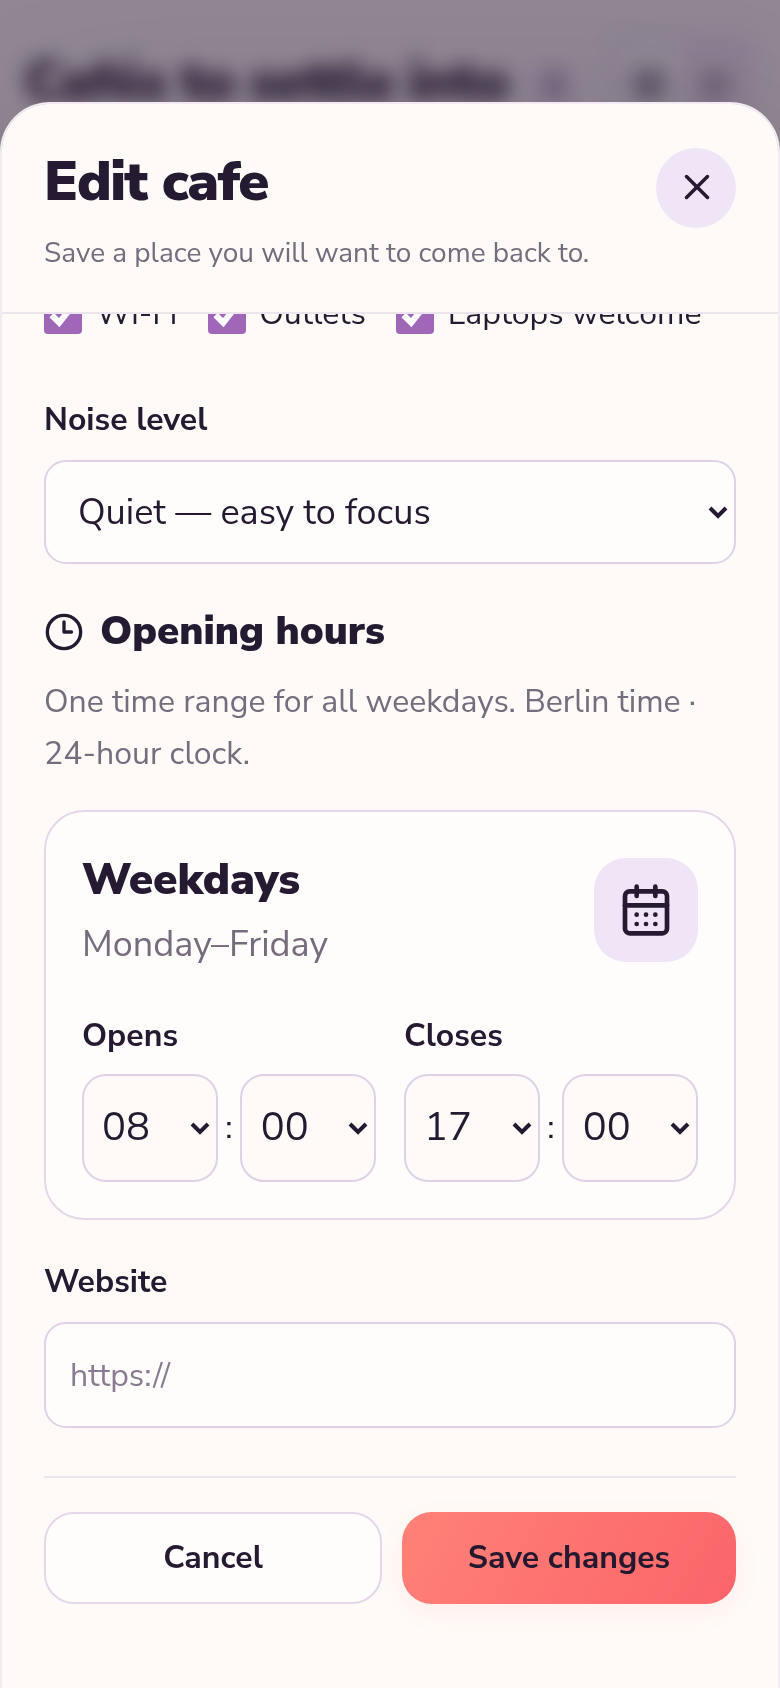
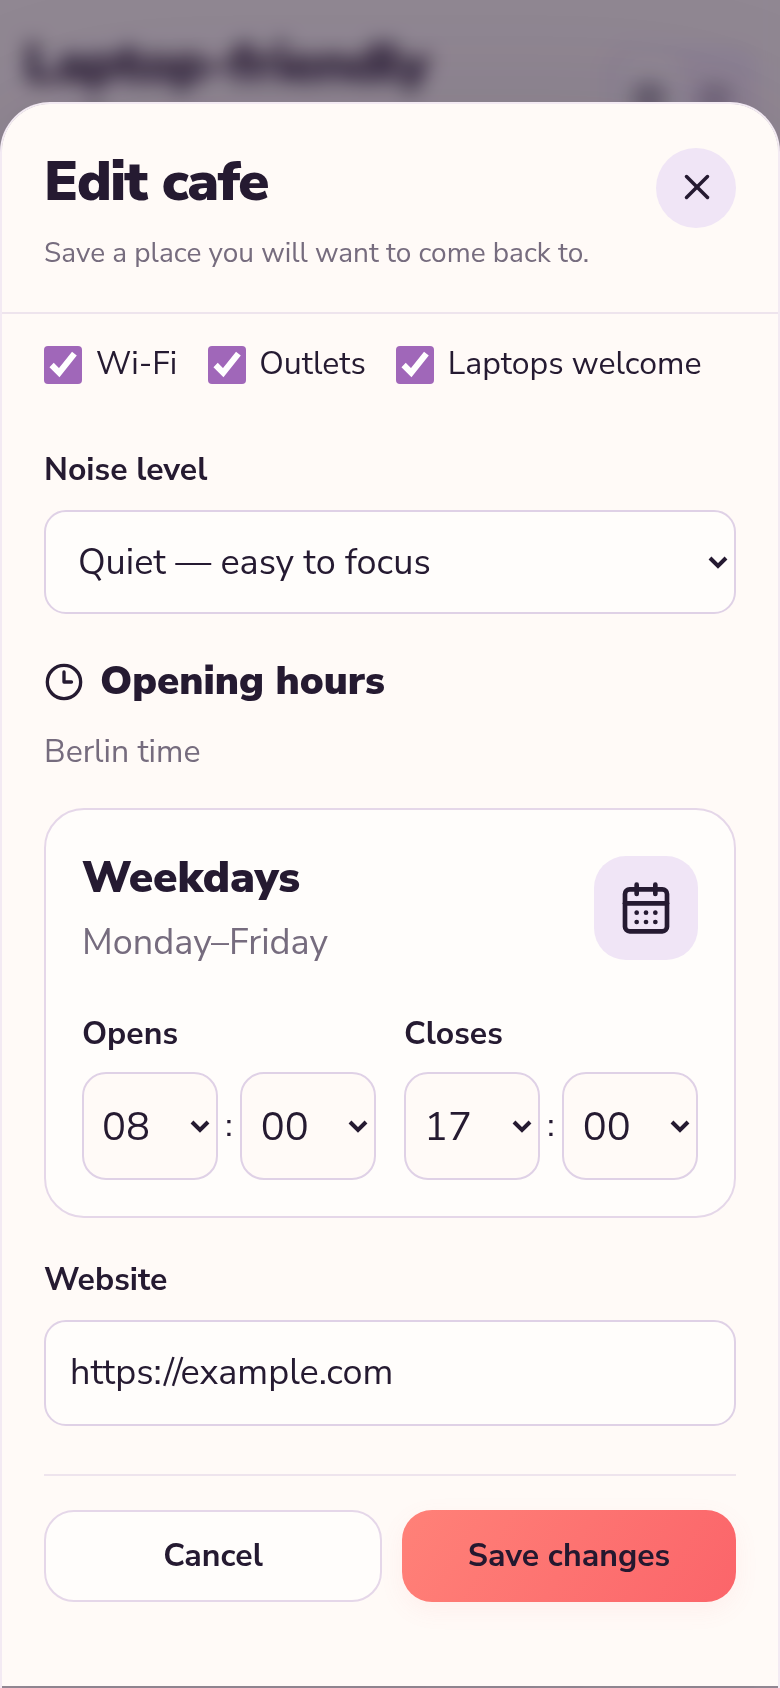
Use plain Cafe spelling and verify Android 1.0.5 with all UI updates

diff --git a/src/App.tsx b/src/App.tsx
@@ -63,13 +63,13 @@ function CafeDetails({ cafe, demo, onClose, onEdit, onDelete }: { cafe: Cafe; de
           {(!available || detail) && <small>{available ? detail : 'No / not confirmed'}</small>}
         </li>
       )}</ul>
-      <section className="detail-about"><h3>About this café</h3><p className="detail-description">{cafe.description || 'No description yet.'}</p></section>
+      <section className="detail-about"><h3>About this cafe</h3><p className="detail-description">{cafe.description || 'No description yet.'}</p></section>
       <div className="detail-facts">
         <section><MapPin size={28} aria-hidden="true" /><div><h3>Address</h3><p>{cafe.address}</p></div></section>
         <section><Clock3 size={28} aria-hidden="true" /><div><h3>Opening hours</h3><OpeningHours value={cafe.hours} /></div></section>
       </div>
       {!demo && <div className="detail-links"><Button asChild><a href={mapUrl} target="_blank" rel="noreferrer"><Navigation size={25} />Get directions</a></Button>{/^https?:\/\//i.test(cafe.website) && <Button variant="outline" asChild><a href={cafe.website} target="_blank" rel="noreferrer"><ExternalLink size={24} />Visit website</a></Button>}</div>}
-      {!demo && <div className="detail-edit"><Button variant="ghost" onClick={onEdit}>Edit café</Button><Button variant="ghost" className="text-danger" onClick={onDelete}><Trash2 size={18} />Delete</Button></div>}
+      {!demo && <div className="detail-edit"><Button variant="ghost" onClick={onEdit}>Edit cafe</Button><Button variant="ghost" className="text-danger" onClick={onDelete}><Trash2 size={18} />Delete</Button></div>}
     </div>
   </Modal>
 }
@@ -134,8 +134,8 @@ export default function App() {
       <main>
         {(offline || cached || error) && <div className="connection-banner" role="status"><WifiOff size={18} /><span>{offline ? 'You are offline. Your saved places are available to browse.' : cached ? 'Showing your saved collection. Could not refresh the latest data.' : error}</span>{!offline && <button onClick={load}><RefreshCw size={15} />Retry</button>}</div>}
         {updateReady && <div className="connection-banner"><Sparkles size={17} /><span>A new version of the app is available.</span><button onClick={() => updateSW?.(true)}>Update</button></div>}
-        <section id="collection" className="collection" aria-label="Cafe collection"><div className="collection-heading"><div><h1>{view === 'list' ? 'Laptop-friendly ' : 'Your coffee '}<span className="heading-tail">{view === 'list' ? 'cafés' : 'map'} <span className="collection-count">{source.length}</span></span></h1></div><div className="view-toggle" aria-label="Collection view"><button aria-label="List" aria-pressed={view==='list'} className={view==='list' ? 'active' : ''} onClick={() => setView('list')}><Grid2X2 size={17} /><span>List</span></button><button aria-label="Map" aria-pressed={view==='map'} className={view==='map' ? 'active' : ''} onClick={() => setView('map')}><Map size={17} /><span>Map</span></button></div></div>
-          {view === 'list' && <div className="search-row"><div className="search-field"><Search size={19} /><input aria-label="Search cafes" placeholder="Search cafés…" value={query} onChange={e => setQuery(e.target.value)} />{query && <button aria-label="Clear search" onClick={() => setQuery('')}><X size={17} /></button>}</div>{filtersButton}</div>}
+        <section id="collection" className="collection" aria-label="Cafe collection"><div className="collection-heading"><div><h1>{view === 'list' ? 'Laptop-friendly ' : 'Your coffee '}<span className="heading-tail">{view === 'list' ? 'cafes' : 'map'} <span className="collection-count">{source.length}</span></span></h1></div><div className="view-toggle" aria-label="Collection view"><button aria-label="List" aria-pressed={view==='list'} className={view==='list' ? 'active' : ''} onClick={() => setView('list')}><Grid2X2 size={17} /><span>List</span></button><button aria-label="Map" aria-pressed={view==='map'} className={view==='map' ? 'active' : ''} onClick={() => setView('map')}><Map size={17} /><span>Map</span></button></div></div>
+          {view === 'list' && <div className="search-row"><div className="search-field"><Search size={19} /><input aria-label="Search cafes" placeholder="Search cafes…" value={query} onChange={e => setQuery(e.target.value)} />{query && <button aria-label="Clear search" onClick={() => setQuery('')}><X size={17} /></button>}</div>{filtersButton}</div>}
           <div className="filter-row"><div className="quick-filters">{([['wifi','Wi-Fi',Wifi],['sockets','Outlets',Zap],['quiet','Quiet',Headphones]] as const).map(([key,label,Icon]) => <button key={key} className={filters[key] ? 'chip active' : 'chip'} aria-pressed={filters[key]} onClick={() => setFilters(f => ({ ...f, [key]: !f[key] }))}><Icon size={14} />{label}{filters[key] && <Check size={12} />}</button>)}</div>{view === 'map' && filtersButton}<label className="sort-select"><ArrowDownWideNarrow size={16} /><select aria-label="Sort by" value={sort} onChange={e => setSort(e.target.value)}><option value="rating">Top rated</option><option value="newest">Newest first</option><option value="name">Name</option></select></label></div>
           {demo && <div className="demo-banner"><Sparkles size={17} /><span><strong>Demo</strong> · Sample places, photos and ratings</span><button onClick={() => { setDemo(false); reset() }}>Back to my collection<X size={15} /></button></div>}
           {(query || filterCount > 0) && <div className="results-line"><span>Found {visible.length} {placeWord(visible.length)}</span><button onClick={reset}>Clear all<X size={13} /></button></div>}

diff --git a/tests/catalog.spec.ts b/tests/catalog.spec.ts
@@ -89,7 +89,7 @@ test('cafe details preserve amenities, complete hours, gallery and editing in th
   await expect(amenities).toContainText('Lively')
   await expect(amenities.getByText('Quiet', { exact: true })).toHaveCount(0)
   await expect(dialog.locator('.detail-rating')).toHaveText('4.7Your rating')
-  await expect(dialog.getByRole('heading', { name: 'About this café' })).toBeVisible()
+  await expect(dialog.getByRole('heading', { name: 'About this cafe' })).toBeVisible()
   await expect(dialog.locator('.detail-description')).toHaveCSS('font-size', '20px')
   const hours = dialog.getByRole('region', { name: 'Opening hours schedule' })
   await expect(hours).toHaveText('Mon–Fri 09:00–18:00 · Sat 10:00–16:00 · Sun Closed')
@@ -150,7 +150,7 @@ for (const mode of ['search, filters and sorting', 'map and card', 'create edit 
       await page.locator('.cafe-marker[title="Alpha Coffee"]').click()
       const detail = page.getByRole('dialog')
       await expect(detail.getByRole('heading', { name: 'Alpha Coffee', exact: true })).toBeVisible()
-      await expect(detail.getByRole('button', { name: 'Edit café', exact: true })).toBeVisible()
+      await expect(detail.getByRole('button', { name: 'Edit cafe', exact: true })).toBeVisible()
       await expect(detail.getByRole('link', { name: /Get directions/ })).toHaveAttribute('href', /destination=52.52,13.405/)
       await expect(detail.getByRole('button', { name: /Sign in|Sign up/ })).toHaveCount(0)
       await page.screenshot({ path: `test-results/detail-${testInfo.project.name}.png`, animations: 'disabled' })
@@ -175,7 +175,7 @@ for (const mode of ['search, filters and sorting', 'map and card', 'create edit 
       expect(create.body.rating).toBe(4.3)
       expect(create.body.photos).toHaveLength(1)
       await page.getByRole('button', { name: 'Open Delta Work Cafe', exact: true }).click()
-      await page.getByRole('button', { name: 'Edit café', exact: true }).click()
+      await page.getByRole('button', { name: 'Edit cafe', exact: true }).click()
       await page.getByLabel('Name', { exact: false }).fill('Delta Updated')
       await page.getByRole('button', { name: 'Remove photo 1' }).click()
       await page.getByRole('button', { name: 'Save changes' }).click()
@@ -214,7 +214,7 @@ test('empty catalog and explicit demo do not write to backend', async ({ page })
   await expect(page.locator('.demo-banner')).toContainText('Demo')
   await page.locator('.cafe-card').first().click()
   await expect(page.getByRole('dialog')).toContainText('Names and details are illustrative')
-  await expect(page.getByRole('button', { name: 'Edit café', exact: true })).toHaveCount(0)
+  await expect(page.getByRole('button', { name: 'Edit cafe', exact: true })).toHaveCount(0)
   expect(backend.writes).toEqual([])
 })
 
@@ -286,8 +286,8 @@ test('English interface, accessible labels and decimal ratings', async ({ page }
   await mockBackend(page)
   await open(page)
   await expect(page.locator('html')).toHaveAttribute('lang', 'en')
-  await expect(page).toHaveTitle('Café Berlin — coffee and places to work')
-  await expect(page.getByRole('heading', { level: 1 })).toHaveText('Laptop-friendly cafés 3')
+  await expect(page).toHaveTitle('Cafe Berlin — coffee and places to work')
+  await expect(page.getByRole('heading', { level: 1 })).toHaveText('Laptop-friendly cafes 3')
   await expect(page.getByRole('button', { name: 'Install app', exact: true })).toHaveCount(0)
   await expect(page.getByRole('button', { name: 'Laptop friendly', exact: true })).toHaveCount(0)
   await expect(page.locator('.cafe-grid')).not.toContainText('Laptop friendly')

diff --git a/tests/opening-hours.spec.ts b/tests/opening-hours.spec.ts
@@ -67,7 +67,7 @@ async function backend(page: Page, hours = '') {
 
 async function edit(page: Page) {
   await page.getByRole('button', { name: 'Open Schedule Cafe', exact: true }).click()
-  await page.getByRole('button', { name: 'Edit café', exact: true }).click()
+  await page.getByRole('button', { name: 'Edit cafe', exact: true }).click()
 }
 
 async function time(page: Page, label: string, value: string) {
@@ -85,6 +85,7 @@ test('one weekday time range saves for Monday–Friday and remains editable afte
   await page.getByLabel('Address', { exact: false }).fill('Teststraße 2')
   await page.getByLabel('Latitude', { exact: true }).fill('52.51')
   const editor = page.locator('.hours-editor')
+  await expect(editor.locator('#hours-hint')).toHaveText('Berlin time')
   await expect(editor.getByText('Monday–Friday', { exact: true })).toBeVisible()
   await expect(editor.getByRole('combobox')).toHaveCount(4)
   await expect(editor.getByRole('button')).toHaveCount(0)
@@ -97,7 +98,7 @@ test('one weekday time range saves for Monday–Friday and remains editable afte
   await page.reload()
   await page.getByRole('button', { name: 'Open Weekday Cafe', exact: true }).click()
   await expect(page.getByRole('region', { name: 'Opening hours schedule' })).toHaveText('Mon–Fri 08:00–17:00')
-  await page.getByRole('button', { name: 'Edit café', exact: true }).click()
+  await page.getByRole('button', { name: 'Edit cafe', exact: true }).click()
   await expect(page.getByLabel('Weekdays opens hour')).toHaveValue('08')
   await expect(page.getByLabel('Weekdays closes hour')).toHaveValue('17')
   await time(page, 'Weekdays closes', '17:43')

diff --git a/index.html b/index.html
@@ -9,7 +9,7 @@
     <link rel="preload" href="/fonts/nunito-sans-900.ttf" as="font" type="font/ttf" crossorigin />
     <link rel="icon" href="/icon.png" type="image/png" />
     <link rel="apple-touch-icon" href="/icons/cappuccino-cat-192.png" />
-    <title>Café Berlin — coffee and places to work</title>
+    <title>Cafe Berlin — coffee and places to work</title>
   </head>
   <body><div id="root"></div><script type="module" src="/src/main.tsx"></script></body>
 </html>

diff --git a/vite.config.ts b/vite.config.ts
@@ -9,7 +9,7 @@ export default defineConfig({
     registerType: 'prompt',
     includeAssets: ['icon.png', 'icons/*.png', 'demo/*.jpg'],
     manifest: {
-      name: 'Café Berlin', short_name: 'Café Berlin',
+      name: 'Cafe Berlin', short_name: 'Cafe Berlin',
       description: 'Your collection of laptop-friendly Berlin cafes',
       lang: 'en', start_url: '/', scope: '/', display: 'standalone',
       background_color: '#fffaf7', theme_color: '#fffaf7',

diff --git a/docs/ANDROID_RELEASE_1.0.5.md b/docs/ANDROID_RELEASE_1.0.5.md
@@ -1,0 +1,65 @@
+# Android 1.0.5 verification
+
+Application ID: `app.cafeberlin.mobile`; versionCode: **6**; minimum Android: **6.0**
+(API 23); target SDK: **35**. Development-signed APK for direct installation.
+
+## Included changes
+
+- Plain Cafe / Cafes spelling in the collection heading, search placeholder,
+  detail labels, page title and PWA app name. The application remains Cafe Berlin;
+  no alternative proposed name was selected. Cafe names stored by users are unchanged.
+- “Laptop-friendly cafes” collection heading. The laptop filter and repeated
+  laptop badges are removed from the catalog and map previews. The three remaining
+  quick filters are Wi-Fi, Outlets and Quiet.
+- Removed the Install app button and its help dialog. No install control was
+  moved elsewhere. Existing offline collection support remains.
+- One fixed Weekdays / Monday–Friday time interval, selected with hour/minute
+  lists. The hint reads only “Berlin time”. There are no day selectors, copy
+  controls, breaks or additional periods. Old schedules survive unrelated edits.
+- The approved cappuccino-cat icon, full-width catalog, large-text cafe detail
+  design and single-line opening-hours summary remain included.
+- The existing Berlin address suggestions, map, gallery and cafe CRUD remain.
+
+## Verification
+
+- Production Supabase configuration matches the selected project and uses its
+  public client key. The APK contains that production URL/key and does not contain
+  the UI test configuration. Production records and access policies were unchanged.
+- All **62** mobile/desktop Playwright tests passed, including the weekday editor,
+  catalog filters, map, photo CRUD and offline cache. Backend requests were mocked.
+- TypeScript, production Vite/PWA build, Capacitor Android sync, `assembleDebug`
+  and `lintDebug` passed.
+- Production UI was also checked at widths of 320, 390 and 1440 px without
+  horizontal overflow or browser runtime errors. The new heading, three catalog
+  filters, removed install button, detail typography and simplified hours were
+  verified together. Screenshots use illustrative fixture data:
+  [catalog top](screenshots/catalog-top-mobile.png),
+  [catalog bottom](screenshots/catalog-bottom-mobile.png),
+  [hours form](screenshots/opening-hours-mobile.png),
+  [hours field](screenshots/weekday-hours-field.png).
+- All **23** production web files match the APK's bundled assets byte-for-byte.
+  The packaged assets contain the latest changes; removed labels and controls
+  are absent. The app ID, version, minimum SDK and target SDK were confirmed.
+- Archive integrity and signature validation passed. The certificate matches
+  Android 1.0.4, allowing an update over the previous installation.
+- The management token, privileged key patterns, service-role JWTs, private
+  keystores and local environment files are absent from the archive.
+
+APK SHA-256:
+
+```text
[1 lines of base64/hex data omitted]
+```
+
+Certificate SHA-256:
+
+```text
[1 lines of base64/hex data omitted]
+```
+
+Local download: `downloads/cafe-berlin-1.0.5.apk` (6,383,086 bytes). The current
+generic copy is `downloads/cafe-berlin-debug.apk`; checksums are recorded in
+`downloads/SHA256SUMS`. Generated APKs, checksums, signing keys and local
+configuration remain outside Git; the APK is delivered through the task workspace.
+
+Physical-device/emulator installation was not performed in this environment.

diff --git a/docs/VERIFICATION.md b/docs/VERIFICATION.md
@@ -1,6 +1,20 @@
-# Catalog heading, filters and footer verification
+# Android 1.0.5 verification
 
-- The list heading is now “Laptop-friendly cafés”. The cafe count stays with
+The current APK includes the agreed catalog, detail, icon and weekday-hours
+changes. Static Cafe / Cafes labels now use plain spelling; the collection title
+reads “Laptop-friendly cafes”, the hours hint reads “Berlin time”, and catalog
+laptop filters/badges and install controls are removed.
+
+All 62 mobile/desktop tests, TypeScript, production web/PWA build, Android build,
+Android lint, signature verification and comparison of all 23 bundled web files
+pass. The certificate matches Android 1.0.4. The production UI was also checked
+at widths of 320, 390 and 1440 px. See
+[release verification](ANDROID_RELEASE_1.0.5.md) for details and the checksum.
+The APK is excluded from Git. Physical-device testing was not performed.
+
+## Catalog heading, filters and footer verification
+
+- The list heading is now “Laptop-friendly cafes”. The cafe count stays with
   the last word when the heading wraps on mobile.
 - Removed the laptop quick filter, its checkbox in the filter dialog, and its
   filtering condition. Catalog cards and map previews no longer repeat laptop
@@ -15,7 +29,8 @@
   [top](screenshots/catalog-top-mobile.png) and
   [bottom](screenshots/catalog-bottom-mobile.png). Widths of 320, 390 and 1440 px
   were checked without horizontal overflow or browser runtime errors.
-- No APK was built. The existing versioned Android 1.0.4 APK remains unchanged.
+- No APK was built during the initial catalog change. These updates are now
+  included in Android 1.0.5; the versioned Android 1.0.4 APK remains unchanged.
 
 ## Weekday hours editor verification
 
@@ -31,8 +46,8 @@
 - [Mobile screenshot](screenshots/opening-hours-mobile.png) and
   [opening-hours field](screenshots/weekday-hours-field.png) use illustrative
   fixture data. No production records were changed.
-- No APK was built for this change. The existing versioned 1.0.4 APK is unchanged
-  and does not include this editor simplification.
+- No APK was built during the initial editor change. The weekday editor and
+  shortened Berlin time hint are now included in Android 1.0.5.
 
 ## Android 1.0.4 verification
 

diff --git a/scripts/android-README.md b/scripts/android-README.md
@@ -15,8 +15,8 @@ npm run android:build
 
 The result is `downloads/cafe-berlin-debug.apk` (also copied to `artifacts/`).
 Generated APKs and checksums are local build outputs and are excluded from Git.
-The current verified build is **1.0.4** (versionCode **5**); see
-[release verification](../docs/ANDROID_RELEASE_1.0.4.md).
+The current verified build is **1.0.5** (versionCode **6**); see
+[release verification](../docs/ANDROID_RELEASE_1.0.5.md).
 It is signed with the local
 development key, so it can be installed directly on a phone after allowing APK
 installation from your download source. Keep the development key if you want

diff --git a/README.md b/README.md
@@ -1,4 +1,4 @@
-# Café Berlin
+# Cafe Berlin
 
 A mobile-first collection of laptop-friendly cafes in Berlin: list and map views,
 search by name, district or address, filters for Wi-Fi, outlets, quiet spaces,
